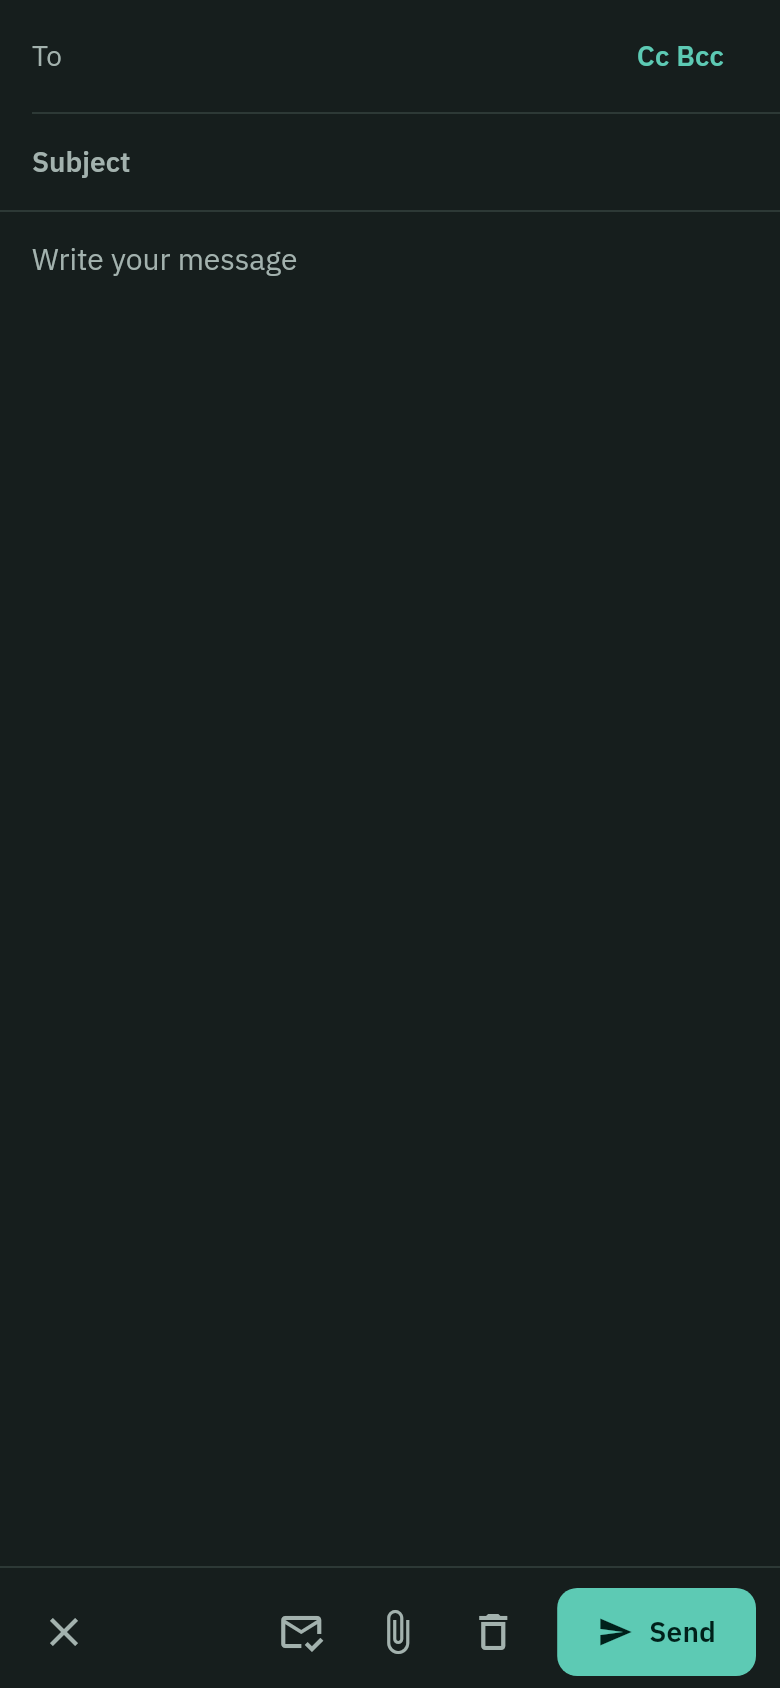
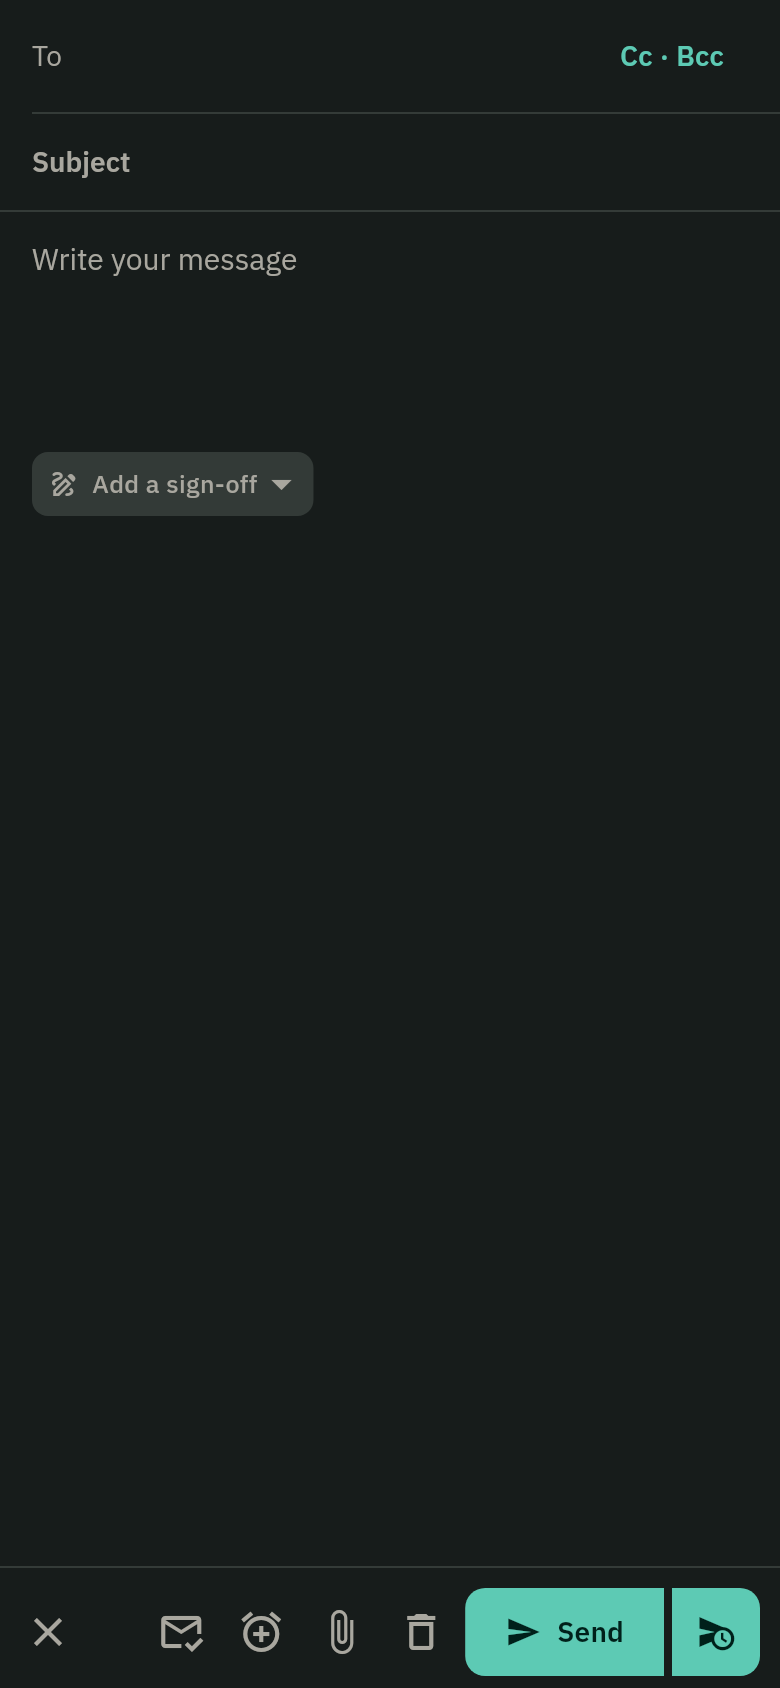
Screenshots: the README and Play listing show the current look
All sixteen README screens in docs/screenshots and the eight Play
listing screens in packaging/android/play/screenshots are rendered
again from the screenshot scenes (SCREEN_PHONE=play for Play's 16:9
phones), with the new colours, page titles inside the content, Settings
by task, the sign-off button in compose, and "Notification settings"
and "All features" at the bottom of the sidebar. Cards now show their
real shadows.

The README's desktop and compose captions say what they now show.

Claude-Session: https://claude.ai/code/session_014i6HAP1iNv3q6sAUqpys6p

diff --git a/README.md b/README.md
@@ -15,7 +15,7 @@ Website: **https://citusmail.fluminaris.com** · Download:
 > [Exactly what leaves your device](PRIVACY.md)
 
 <p align="center">
-  <img src="docs/screenshots/readme_desktop.png" alt="Citusmail on the desktop: the Smart Inbox with Pinned, Verification (a sign-in code shown in the list), Important and General sections" width="68%">
+  <img src="docs/screenshots/readme_desktop.png" alt="Citusmail on the desktop: the Smart Inbox with Pinned, Verification (a sign-in code shown in the list), Important and General sections, and the sidebar with Notification settings and All features at the bottom" width="68%">
   &nbsp;
   <img src="docs/screenshots/readme_phone.png" alt="Citusmail on a phone: the same Smart Inbox" width="24%">
 </p>
@@ -78,7 +78,7 @@ Website: **https://citusmail.fluminaris.com** · Download:
 <tr>
 <td align="center" width="25%"><img src="docs/screenshots/readme_invitation.png" alt="A meeting invitation: the date in your time zone, with Accept, Maybe and Decline"><br><sub>Meeting invitations</sub></td>
 <td align="center" width="25%"><img src="docs/screenshots/readme_phone_reader.png" alt="A scam from a real, verified address, with a red warning that lists why"><br><sub>Phishing warnings that explain</sub></td>
-<td align="center" width="25%"><img src="docs/screenshots/readme_phone_compose.png" alt="Writing on a phone, with Send at the bottom"><br><sub>Writing, with Send in thumb reach</sub></td>
+<td align="center" width="25%"><img src="docs/screenshots/readme_phone_compose.png" alt="Writing on a phone, with a sign-off to add and Send at the bottom"><br><sub>Writing, with Send in thumb reach</sub></td>
 <td align="center" width="25%"><img src="docs/screenshots/readme_phone_settings.png" alt="Settings on a phone: a search, then groups such as Notifications, Inbox, Privacy"><br><sub>Settings by task, with search</sub></td>
 </tr>
 </table>
